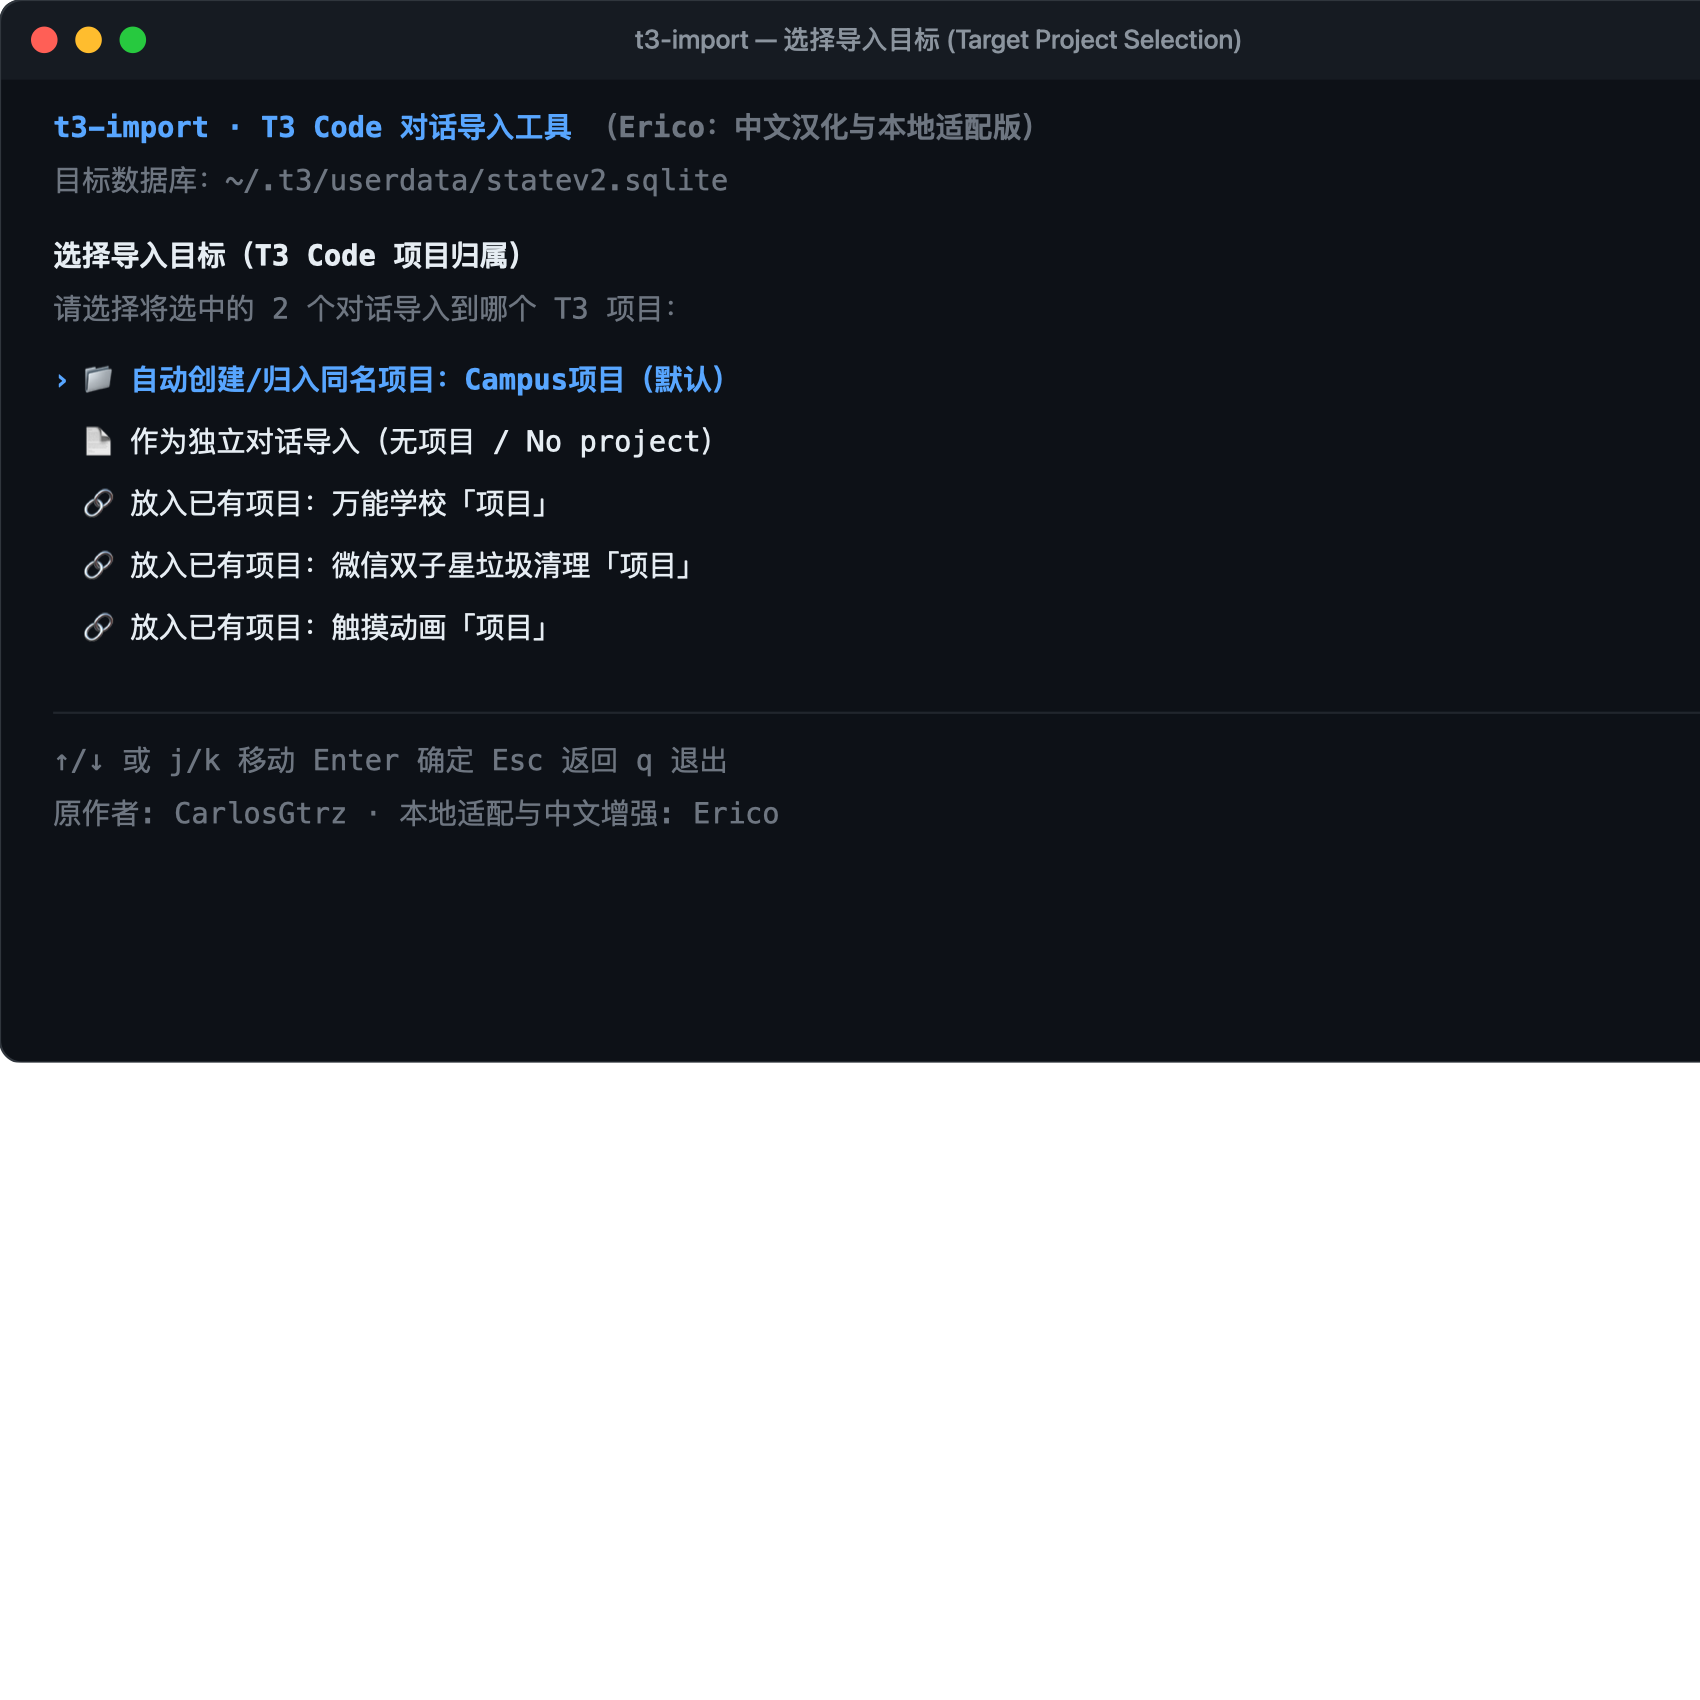
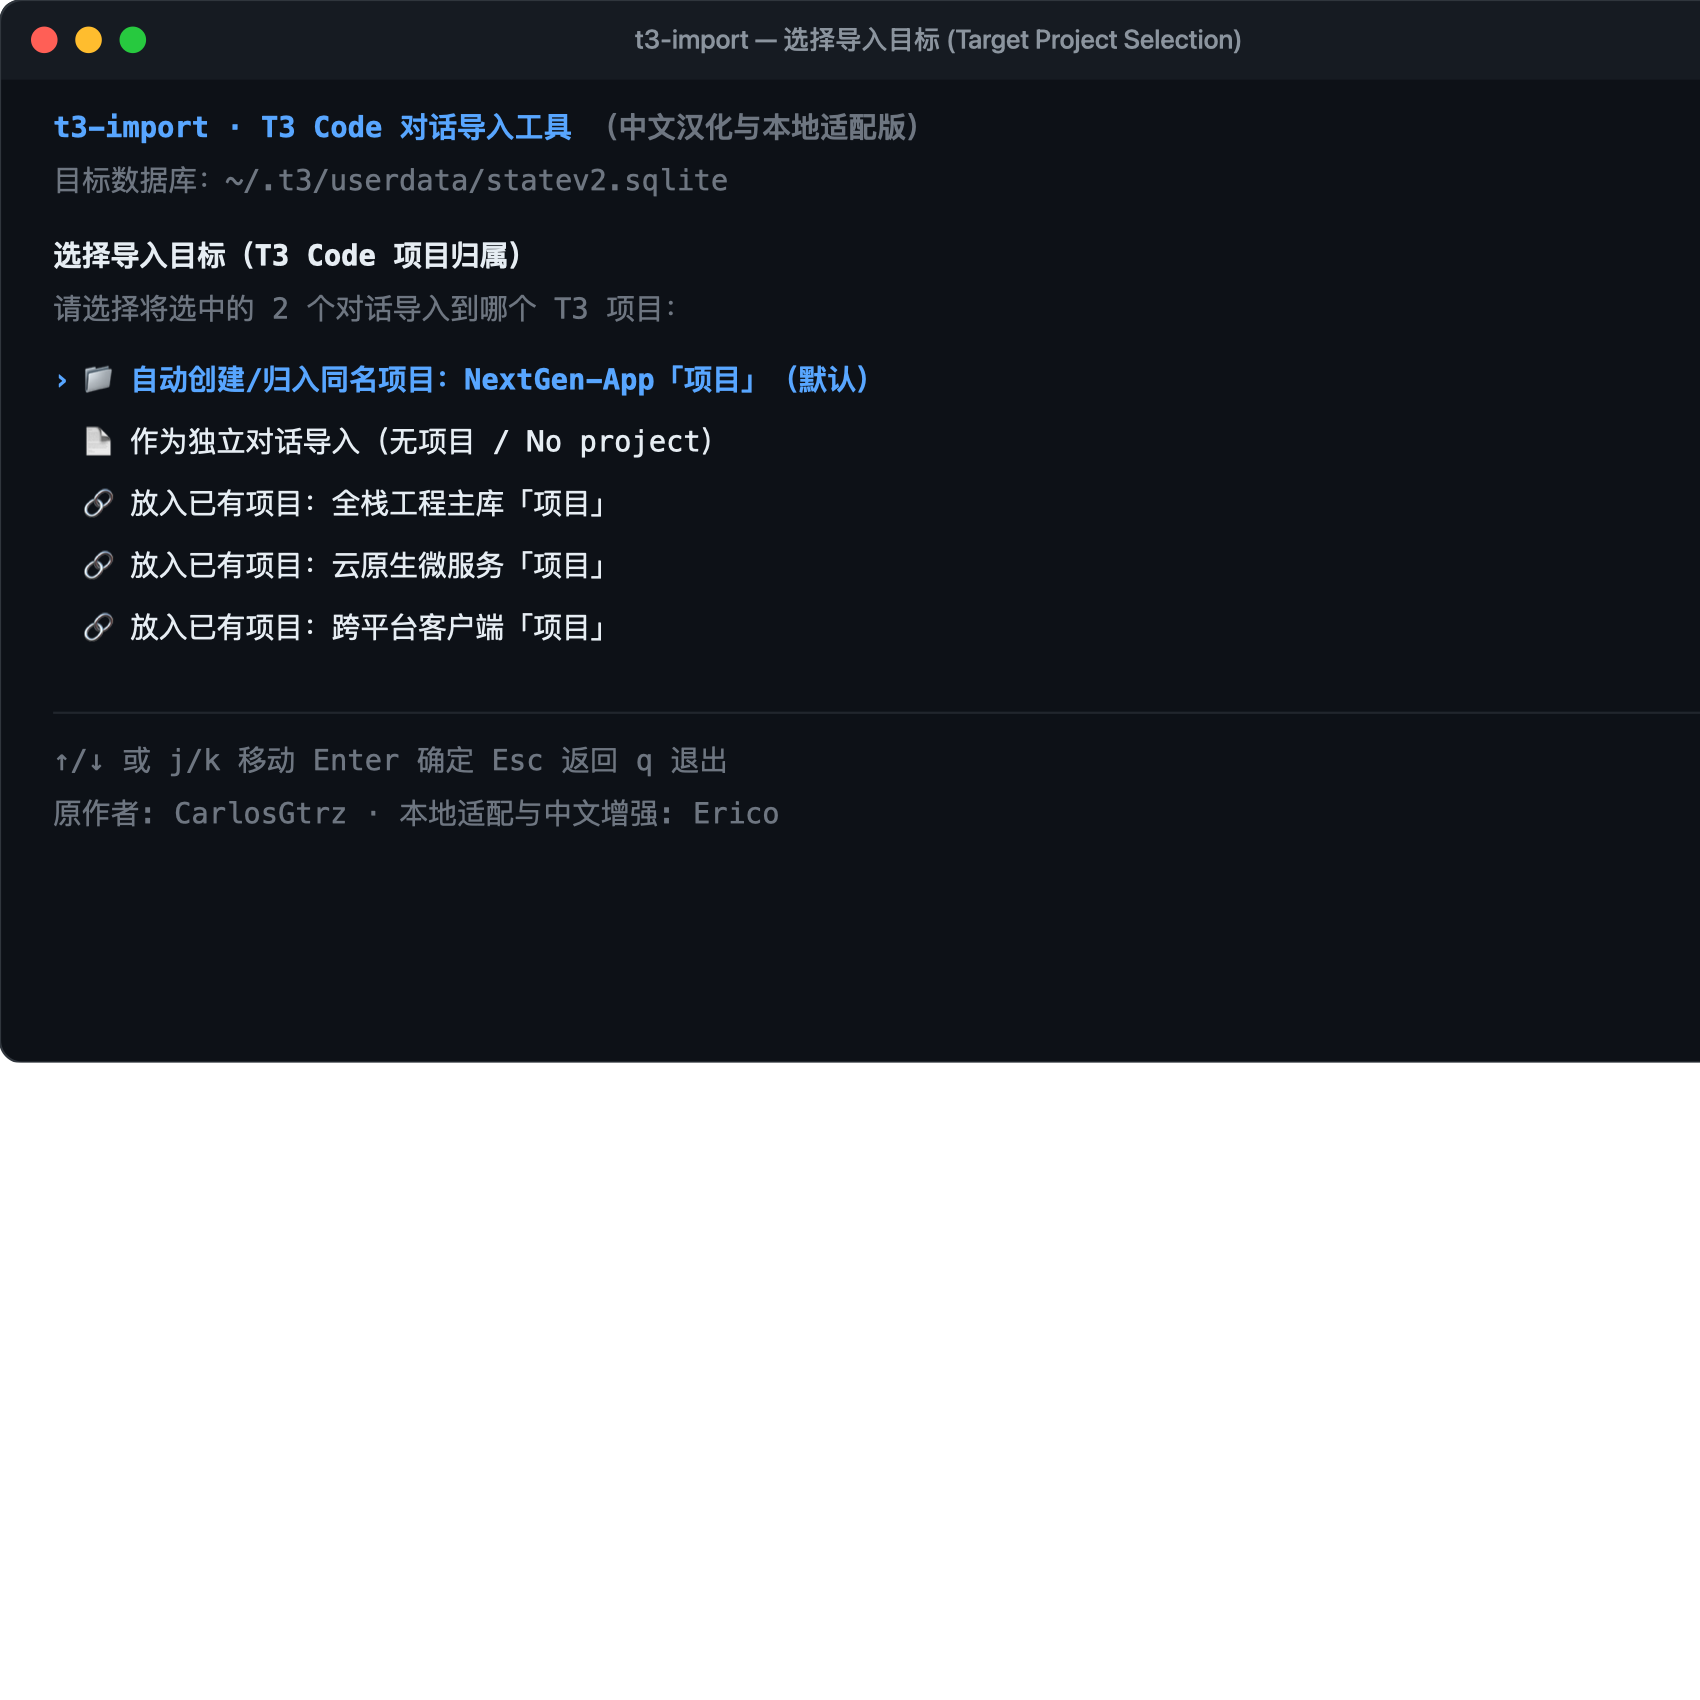
docs: 截图与示例数据全面脱敏化（使用通用专业演示项目）

diff --git a/README.md b/README.md
@@ -15,7 +15,7 @@
 ### 💡 核心特性
 
 - **📁 项目文件夹与会话大标题深度适配**：
-  - 自动读取 Codex 数据库与全局配置，精准还原用户自定义的会话大标题（如 `Compose Android - 软件图标`）与项目文件夹（如 `📁 Campus项目`），告别截断首句。
+  - 自动读取 Codex 数据库与全局配置，精准还原用户自定义的会话大标题（如 `React 19 核心架构重构`）与项目文件夹（如 `📁 NextGen-App「项目」`），告别截断首句。
 - **🎯 自由选择导入目标（拒绝机器盲目猜测）**：
   - **自动同名项目**：默认自动创建或归入同名 T3 项目，整洁规整。
   - **独立对话（无项目）**：将选中的对话直接作为独立会话导入左侧列表。
@@ -79,13 +79,13 @@ t3-import --help
 t3-import import --help
 
 # 导入指定项目下的指定会话
-t3-import import --source codex --project "Campus项目" --thread <thread-id> --yes --non-interactive
+t3-import import --source codex --project "NextGen-App" --thread <thread-id> --yes --non-interactive
 
 # 导入为独立对话（无项目 / No project）
-t3-import import --source codex --project "Campus项目" --all --no-project --yes --non-interactive
+t3-import import --source codex --project "NextGen-App" --all --no-project --yes --non-interactive
 
 # 导入到指定的已有 T3 项目（支持项目名称或 UUID）
-t3-import import --source codex --project "Campus项目" --all --target-project "万能学校「项目」" --yes --non-interactive
+t3-import import --source codex --project "NextGen-App" --all --target-project "全栈工程主库「项目」" --yes --non-interactive
 
 # 同步已导入会话的新增轮次
 t3-import sync --source codex --workspace /path/to/project --all --yes --non-interactive
@@ -116,7 +116,7 @@ t3-import cache reset --yes
 ### 💡 Key Features
 
 - **📁 Project Folders & Exact Titles**:
-  - Automatically loads Codex sqlite metadata and configuration to restore custom conversation titles (e.g. `Compose Android - App Icon`) and user-defined project folders (`📁 Campus Project`), avoiding truncated opening prompts.
+  - Automatically loads Codex sqlite metadata and configuration to restore custom conversation titles (e.g. `React 19 Server Components Architecture`) and user-defined project folders (`📁 NextGen-App`), avoiding truncated opening prompts.
 - **🎯 Flexible Target Project Routing**:
   - **Auto Project (Default)**: Automatically creates or links to the matching project folder.
   - **Independent Conversations (No project)**: Imports threads directly into T3's general chat sidebar without creating project containers.
@@ -176,13 +176,13 @@ All capabilities can also run headlessly:
 
 ```bash
 # Import a specific thread by project name
-t3-import import --source codex --project "Campus Project" --thread <thread-id> --yes --non-interactive
+t3-import import --source codex --project "NextGen-App" --thread <thread-id> --yes --non-interactive
 
 # Import as independent conversations (No project)
-t3-import import --source codex --project "Campus Project" --all --no-project --yes --non-interactive
+t3-import import --source codex --project "NextGen-App" --all --no-project --yes --non-interactive
 
 # Import into an existing T3 project (by title or UUID)
-t3-import import --source codex --project "Campus Project" --all --target-project "My Workspace" --yes --non-interactive
+t3-import import --source codex --project "NextGen-App" --all --target-project "Core Engineering Library" --yes --non-interactive
 
 # Synchronize newly settled turns for previously imported conversations
 t3-import sync --source codex --workspace /path/to/project --all --yes --non-interactive
